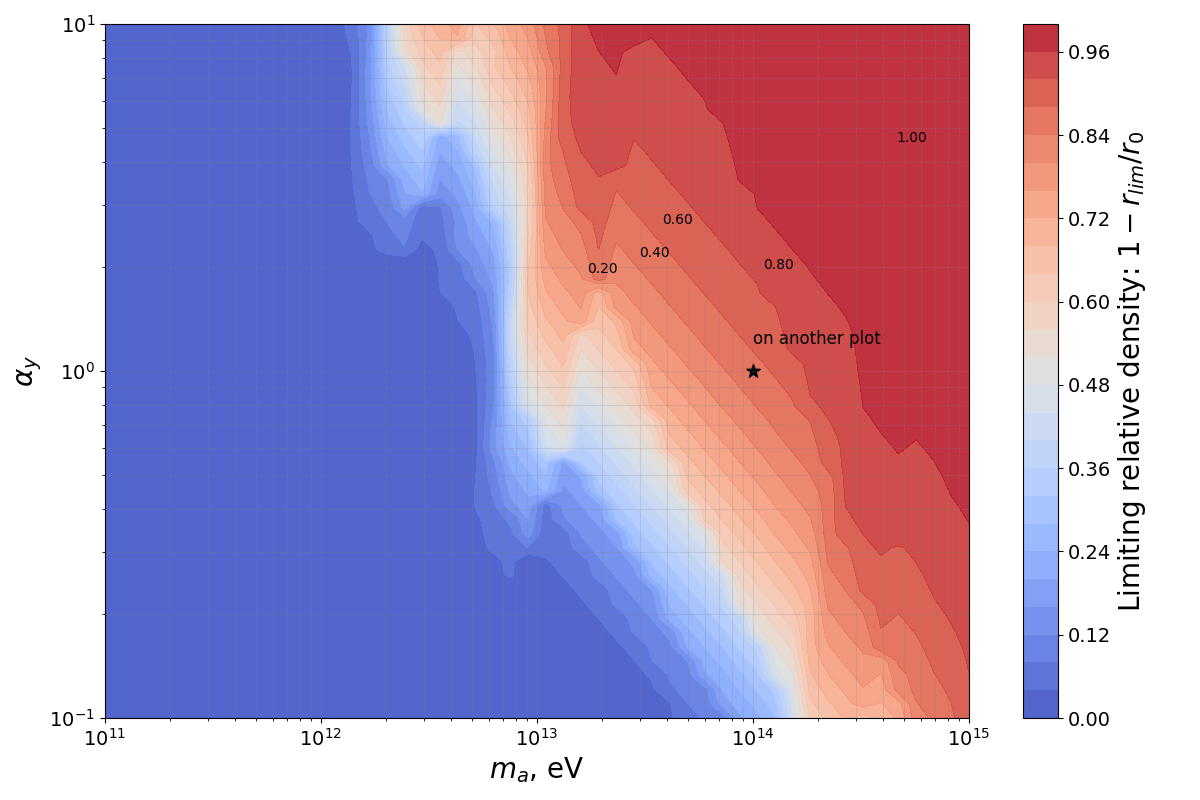
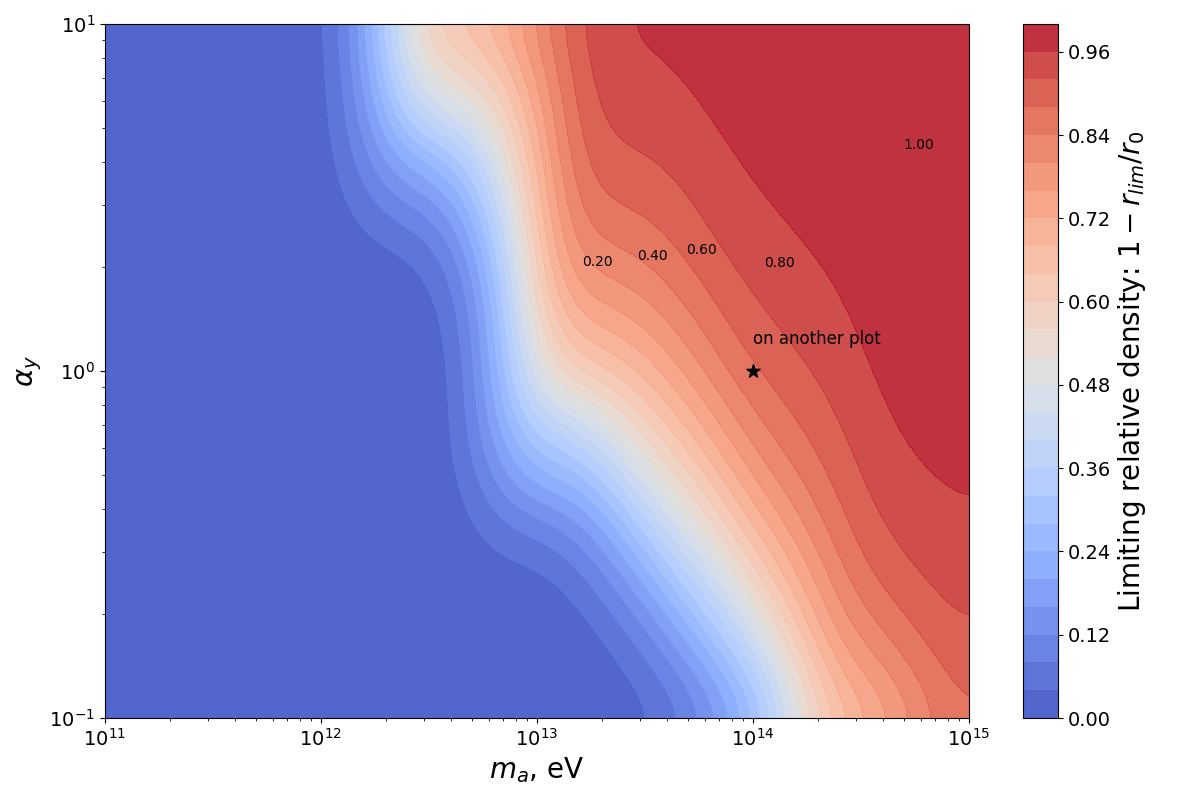
Добавлен график экспериментальных ограничений. Добавил сглаживания 2Д графиков исследующий пространство параметров

diff --git a/raschet/rec.py b/raschet/rec.py
@@ -1,5 +1,7 @@
 #rec.py
 from math import gamma as Gamma
+from scipy.ndimage import gaussian_filter
+
 import numpy as np
 from numpy import sqrt as sqrt
 import matplotlib.pyplot as plt
@@ -70,16 +72,15 @@ def lim_3b(x,Ta):
     r_pit = (Ta**2/(x**4)) / ((4*np.pi*alpha)**3 *r0*(2*np.pi**2* g_s(x) / 45)*sqrt(ma/mb))
     return r_pit
         
-def lim_observ(T,r,Ta):
+def exp_constrait(alpha, m):
+    
     """
     Observational limit on crosssection: 0.1 < sigma/m < 1 g/sm
-    in GeV^-3: 5.61*10^3 < sigma/m < 5.61*10^4 GeV^-3
-    in eV^-3: 5*10^-24 < sigma/m < 5*10^-23 eV^-3
-    sigma/m ~ beta/T =>  10^-24<beta<10^-22 ev^-3
+    m0 = 100GeV in eV, alpha0 = 0.01, v=200 km/s
 
-    This function returns beta/T function
+    This function returns sigma/m function for retherford cross
     """
-    return r * (2*np.pi**2* g_s(T) / 45)  *T^3 *(ma**(1/2)/mb) * (4*np.pi*alpha)**5  * (Ta**(1/2)/T)**11
+    return 1.43* (alpha/0.01)**2 / (m/(100*10**9))**3
     
 def kriteria(alp_range,m_range,mb_range):
     """
@@ -92,6 +93,8 @@ def kriteria(alp_range,m_range,mb_range):
 
     create csv file of dataframe
     """
+    points = len(alp_range)
+    name = "data_nolog_"+str(points)+".scv"
     dens = [0]*len(alp_range)
     for k, a in tqdm(enumerate(alp_range), ncols=100,total=len(alp_range), desc='Calculating'):
         dens1 = []  # Переменная для хранения текущего результата
@@ -105,7 +108,7 @@ def kriteria(alp_range,m_range,mb_range):
         dens[k] = dens1  # Записываем результат
 
     df = pd.DataFrame(dens, index=alp_range,columns=m_range)
-    df.to_csv('data_nolog.csv')
+    df.to_csv(name)
 
 def calc(alpha,ma,mb):
     """
@@ -190,6 +193,60 @@ def calc(alpha,ma,mb):
     return [T,rk,r3b,rcl,rlim]
     
 
+def contour_with_constraints(df, lang="eng", PICPATH="/home/kds/sci/threebody/pics/"):
+
+    
+    graph_name = "contour_with_constraints.png"
+
+    # Установки для текста
+    if lang == "rus":
+        lab1 = 'Значения относительной плотности'
+        lab2 = r'Относительная плотность прорекомбинировавших частиц: ${1-{r_{lim}}/{r_0}}$'
+        title1 = 'Относительная плотность прорекомбинировавших частиц для различных параметров модели'
+    elif lang == "eng":
+        lab1 = "Relative density"
+        lab2 = r'Limiting relative density: ${1-{r_{lim}}/{r_0}}$'
+        title1 = "Relative density of recombined particles for different model parameters"
+
+    # Создаем фигуру и оси графика
+    fig, ax = plt.subplots(figsize=(12, 8))
+
+    # Данные из DataFrame
+    x = np.array(df.columns, dtype=float)
+    y = np.array(df.index, dtype=float)
+    z = df.values
+    z = gaussian_filter(z, sigma=4)  # sigma определяет степень сглаживания
+
+
+    # Основной контурный график
+    colormap = plt.colormaps["coolwarm"].copy()
+    cf = ax.contourf(x, y, z, levels=30, cmap=colormap, alpha=0.9)
+    cbar = fig.colorbar(cf, ax=ax)
+    ax.set_xscale('log')
+    ax.set_yscale('log')
+    cbar.set_label(lab2, fontsize=20)
+
+    ax.set_xlabel(r'$m_a$, eV', fontsize=20)
+    ax.set_ylabel(r'$\alpha_y$', fontsize=20)
+
+    # Вычисляем значения exp_constrait(alpha, m)
+    X, Y = np.meshgrid(x, y)
+    Z_constraint = exp_constrait(Y, X)
+    B, A = 0.1, 1 
+    ax.contour(X, Y, Z_constraint, levels=[B, A], colors='purple', linewidths=5, linestyles='-')  # Контурные линии
+    constraint_mask = (Z_constraint >= B) & (Z_constraint <= A)
+    ax.contourf(X, Y, constraint_mask, levels=[0.5, 1], colors='purple', alpha=0.3)
+
+
+    ax.grid(False)
+    ax.tick_params(labelsize=14)
+    ax.title.set_size(16)
+    cbar.ax.tick_params(labelsize=14)
+    plt.tight_layout()
+    plt.savefig(PICPATH + graph_name)
+    plt.show()
+
+
 def contourplot(df,lang="eng",PICPATH="/home/kds/sci/threebody/pics/",x0=10**8,y0=8):
     graph_name = "contourplot_lim.png"
     if lang == "rus":
@@ -202,12 +259,13 @@ def contourplot(df,lang="eng",PICPATH="/home/kds/sci/threebody/pics/",x0=10**8,y
         lab2 = r'Limiting relative density: ${1-{r_{lim}}/{r_0}}$'
         lab3 = "on another plot"
         title1 = "Reletive density of recombined particles for different model parameters"
-    # Создаем фигуру и оси графика
-    fig, ax = plt.subplots(figsize=(12, 8))
-    # Используем массивы NumPy для данных
+
     x = np.array(df.columns, dtype=float)
     y = np.array(df.index, dtype=float)
     z = df.values
+    z = gaussian_filter(z, sigma=4)
+
+    fig, ax = plt.subplots(figsize=(12, 8))
     colormap = plt.colormaps["coolwarm"].copy()
     # Создаем контурный график с логарифмическим масштабом по обеим осям
     cf = ax.contourf(x, y, z, levels=30, cmap=colormap, alpha=0.9)
@@ -216,10 +274,10 @@ def contourplot(df,lang="eng",PICPATH="/home/kds/sci/threebody/pics/",x0=10**8,y
     ax.set_yscale('log')
     cbar.set_label(lab2,fontsize = 20)
     # cbar.set_label(r'Значения относительной плотности: $-\log{\frac{r}{r_0}}$',fontsize = 20)
-    
     ax.set_xlabel(r'$m_a$, eV', fontsize=20)
     ax.set_ylabel(r'$\alpha_y$', fontsize=20)
-    # Добавляем значение уровней контуров в центре каждого контура
+
+
     levels = cf.levels
     levels_done = []
     for i, level in enumerate(levels):
@@ -233,8 +291,8 @@ def contourplot(df,lang="eng",PICPATH="/home/kds/sci/threebody/pics/",x0=10**8,y
                 levels_done.append(level)
     # Добавляем сглаживание краев контуров
     cf.cmap.set_under('white')
-    # Добавляем сетку на график
-    ax.grid(True, which='both', linestyle='-', color='grey', alpha=0.2)
+    ax.grid(False) 
+    # ax.grid(False, which='both', linestyle='-', color='grey', alpha=0.2)
     # Устанавливаем размеры шрифтов на осях и заголовке
     ax.tick_params(labelsize=14)
     ax.title.set_size(16)
@@ -370,7 +428,7 @@ logic = 1
 lang = "eng"
 PICPATH = "/home/kds/sci/threebody/pics/"
 err=10**(-3)
-points = 50
+points = 100
 mb_range = 10 #=mb/ma
 
 def main():
@@ -385,7 +443,8 @@ def main():
     m_range = np.logspace(11,15,points)
     if logic == 1:
         try:
-            df = pd.read_csv('data_nolog.csv')
+            name = "data_nolog_"+str(points)+".scv"
+            df = pd.read_csv(name)
         except FileNotFoundError:
             print(u'Saved data not found')
             df = kriteria(alp_range,m_range,mb_range)
@@ -397,15 +456,16 @@ def main():
     [T,rk,r3,rcl,rlim] = calc(alpha,ma,mb)
     # kramers_graph(T,rk,r3,rcl,rlim,lang)
     # classkram3body_graph(T,rk,r3,rcl,rlim,lang)
-    lim_graph(T,rk,r3,rcl,rlim,lang,PICPATH)
-    df = pd.read_csv('data_nolog.csv', index_col=0)
+    # lim_graph(T,rk,r3,rcl,rlim,lang,PICPATH)
+    df = pd.read_csv(name, index_col=0)
 
     alpha = 1
     ma = 10**14
     mb = ma*mb_range
-    # contourplot(df,lang,PICPATH,ma,alpha)
-    [T,rk,r3,rcl,rlim] = calc(alpha,ma,mb)
-    lim_graph(T,rk,r3,rcl,rlim,lang,PICPATH)
+    contour_with_constraints(df,lang,PICPATH)
+    contourplot(df,lang,PICPATH,ma,alpha)
+    # [T,rk,r3,rcl,rlim] = calc(alpha,ma,mb)
+    # lim_graph(T,rk,r3,rcl,rlim,lang,PICPATH)
     # classkram3body_graph(T,rk,r3,rcl,rlim,lang)
 
     plt.show()
